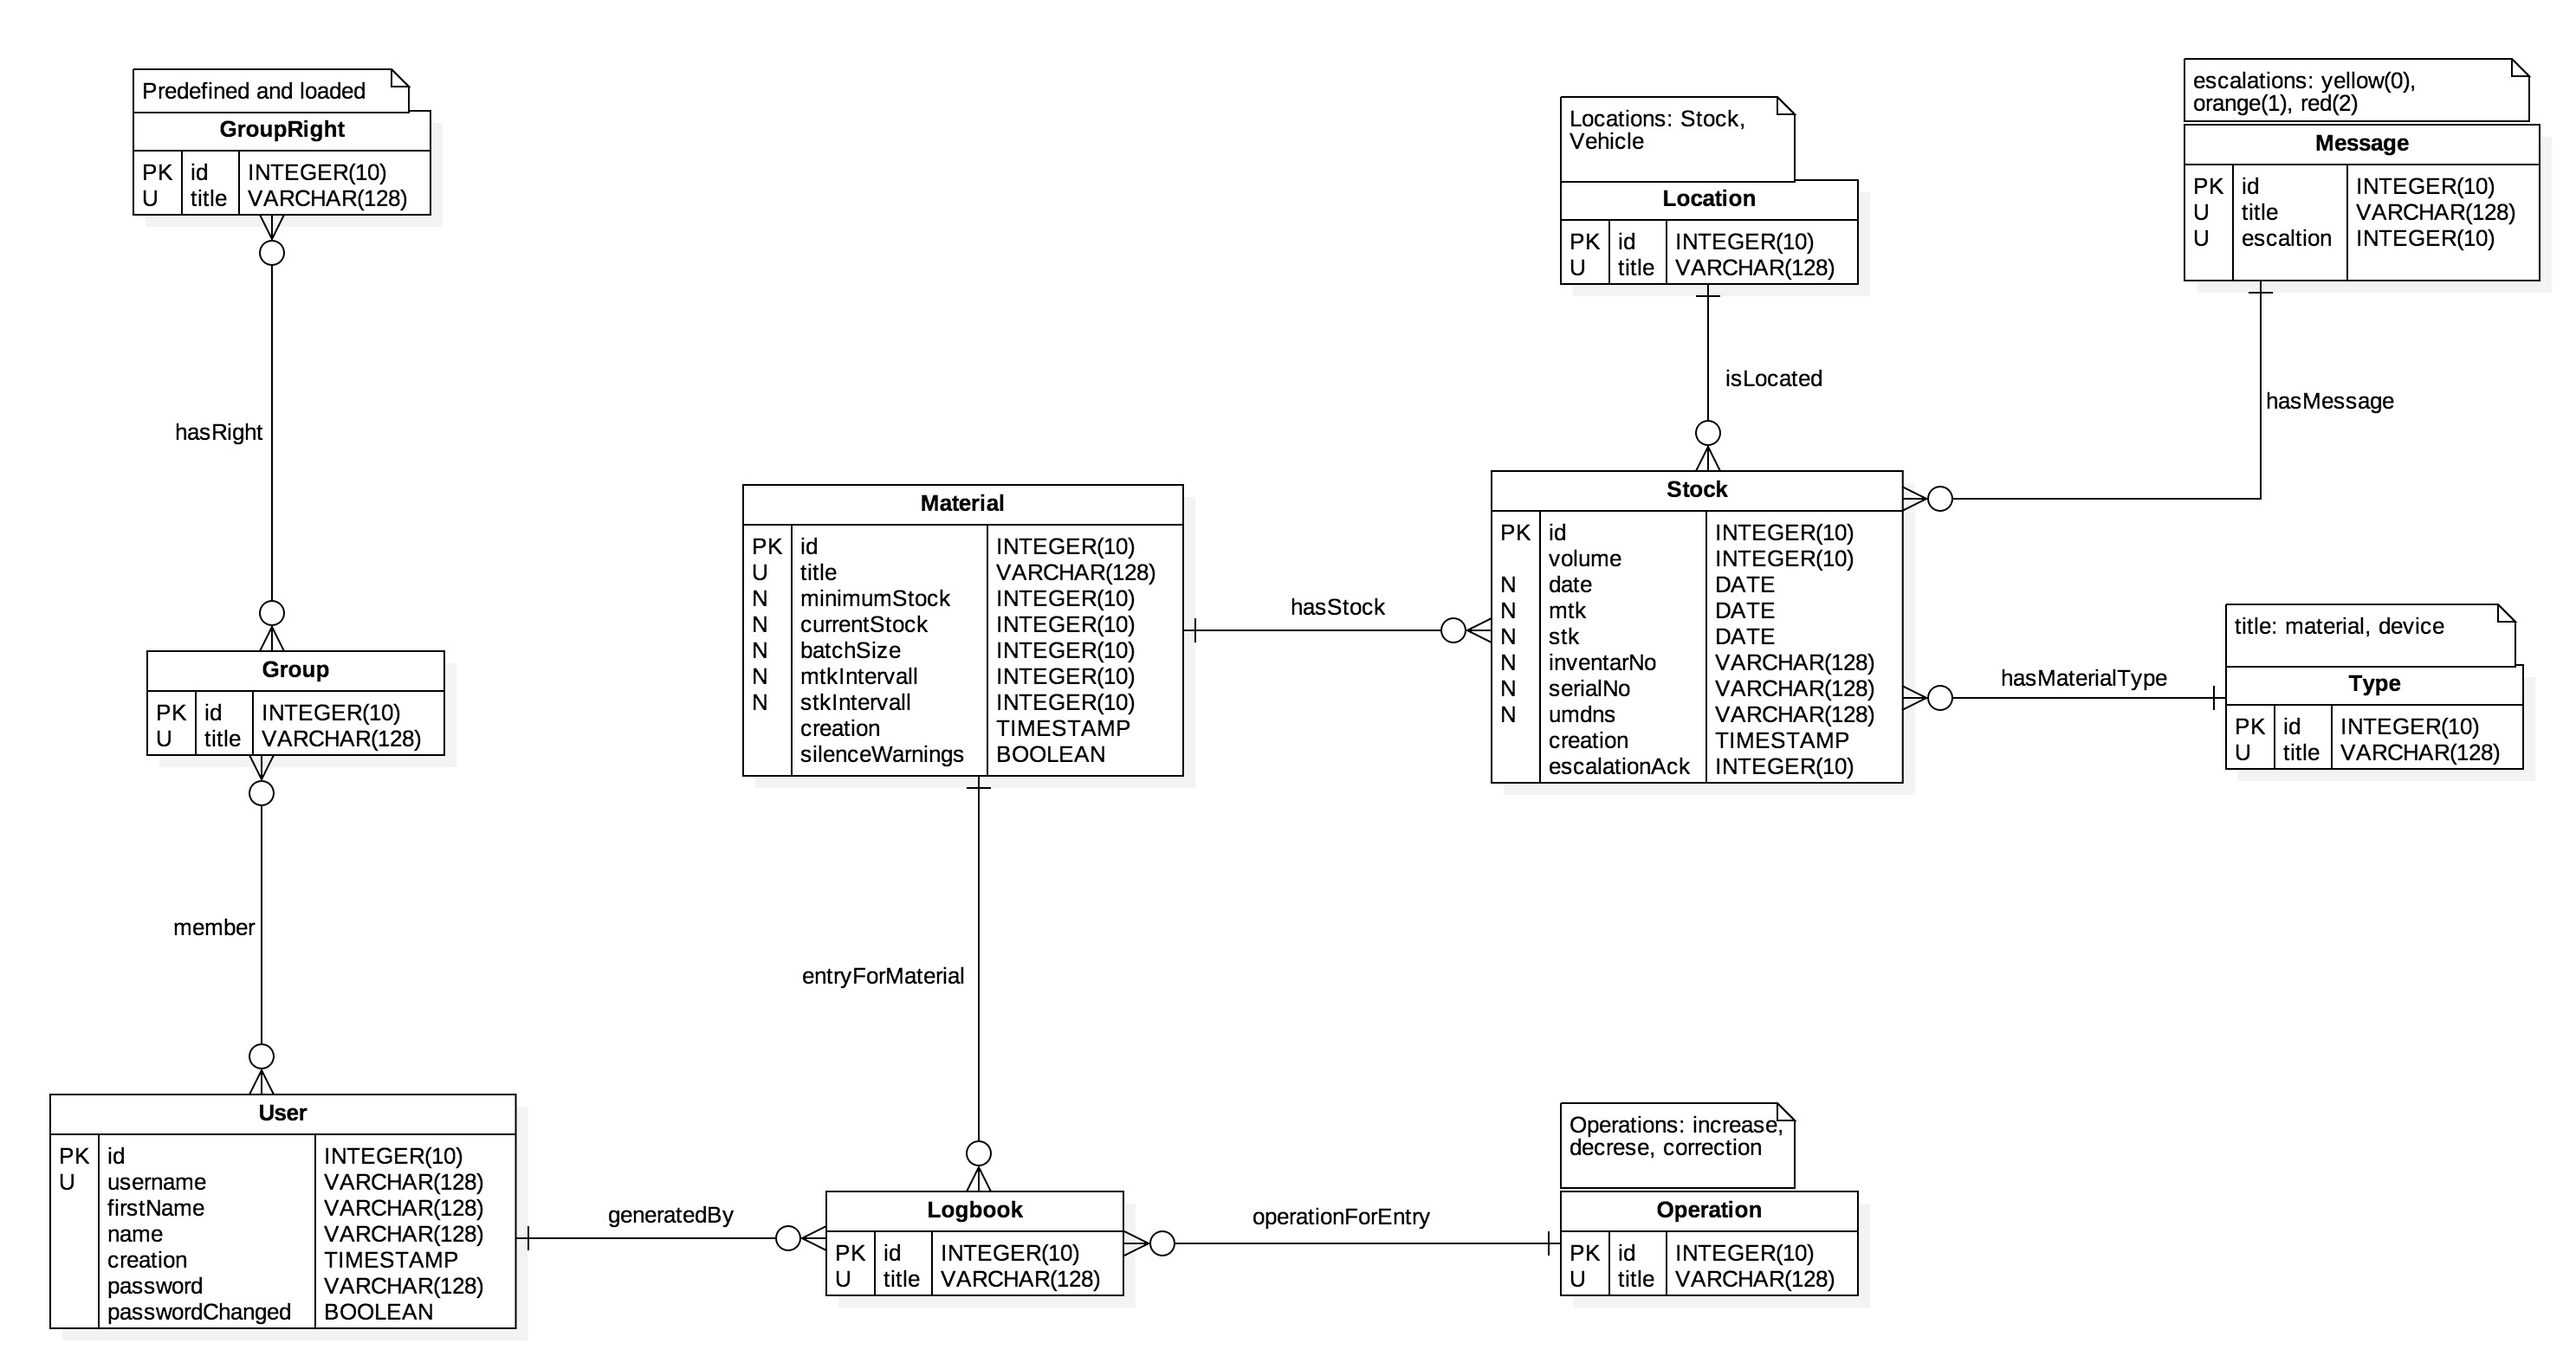
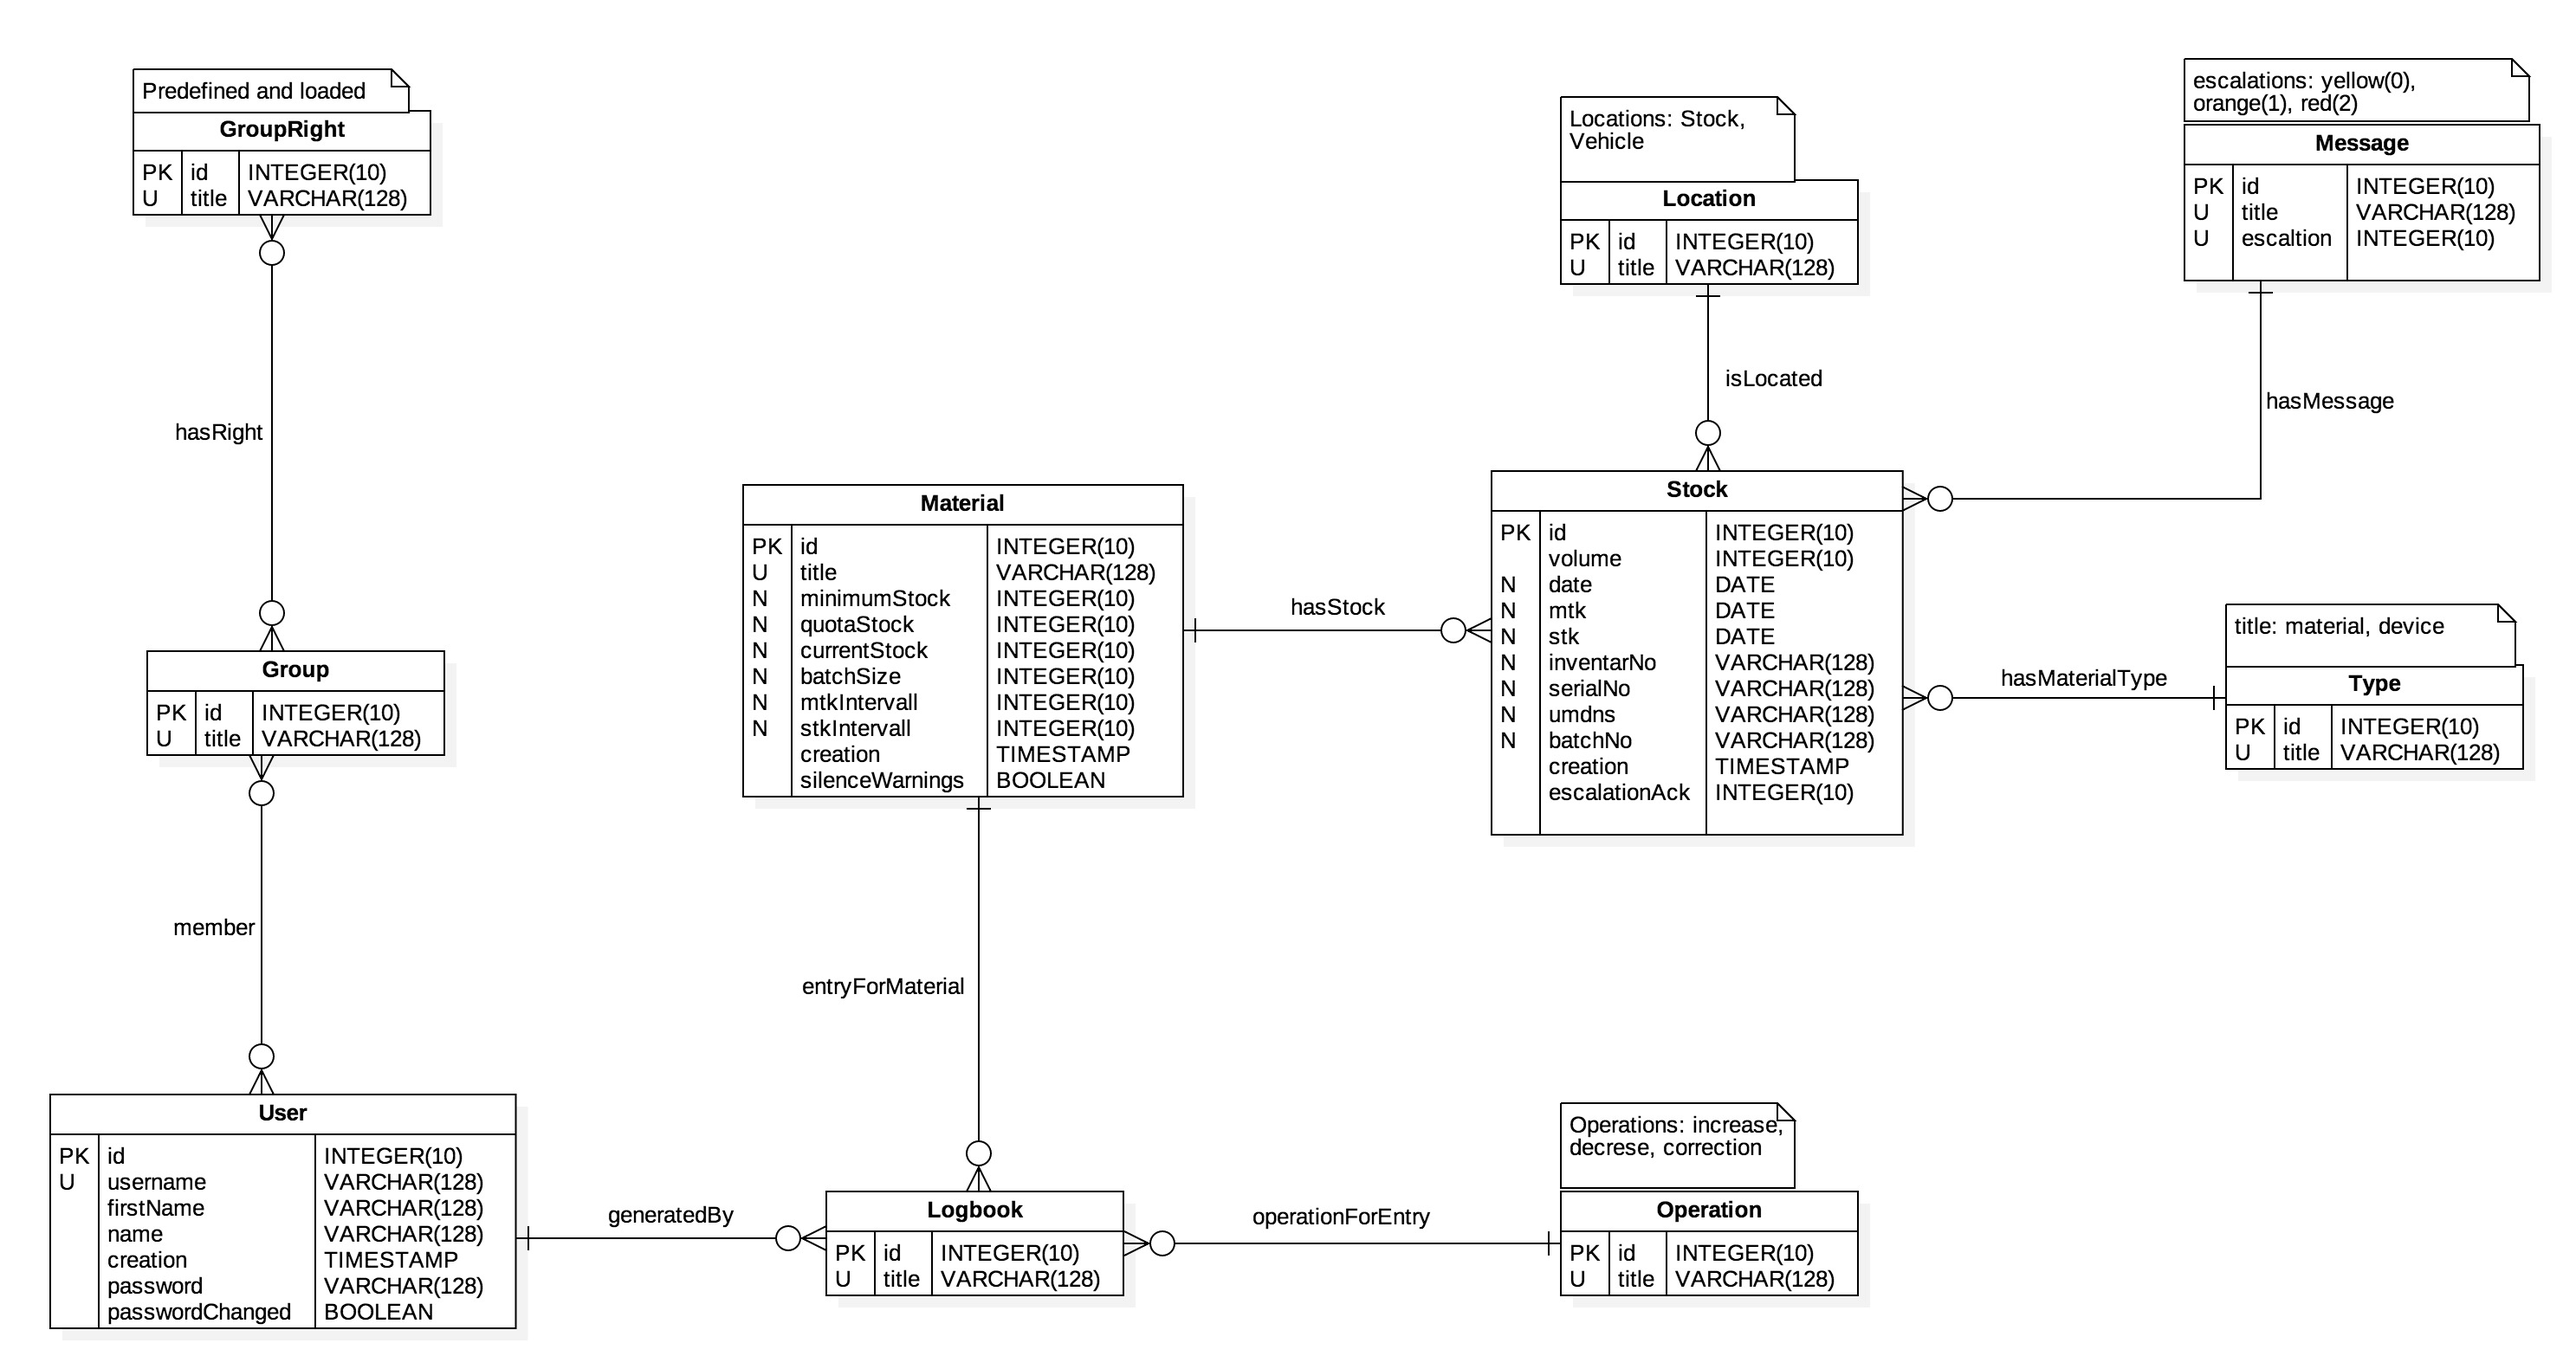
ER Model extended by lot number and material quota.

Changed region(s): [[0.5878, 0.5211, 0.7424, 0.613], [0.3093, 0.4598, 0.4331, 0.5824], [0.3093, 0.705, 0.3712, 0.7356]]

diff --git a/modellierung/sql.md b/modellierung/sql.md
@@ -94,6 +94,7 @@ CREATE TABLE `Material` (
    `id` int(10) unsigned NOT NULL AUTO_INCREMENT PRIMARY KEY,
    `title` varchar(128) COLLATE 'latin1_german2_ci' NOT NULL UNIQUE,
    `minimumStock` int(10) unsigned NULL,
+   `quotaStock` int(10) unsigned NULL,
    `currentStock` int(10) unsigned NULL,
    `batchSize` int(10) unsigned NULL,
    `mtkIntervall` int(10) unsigned NULL,
@@ -111,6 +112,7 @@ CREATE TABLE `Stock` (
    `inventarNo` varchar(128) COLLATE 'latin1_german2_ci' NULL,
    `serialNo` varchar(128) COLLATE 'latin1_german2_ci' NULL,
    `umdns` varchar(128) COLLATE 'latin1_german2_ci' NULL,
+   `batchNo` varchar(128) COLLATE 'latin1_german2_ci' NULL,
    `creation` timestamp NOT NULL,
    `escalationAck` int(10) unsigned NOT NULL,
    `material_id` int(10) unsigned NOT NULL,
